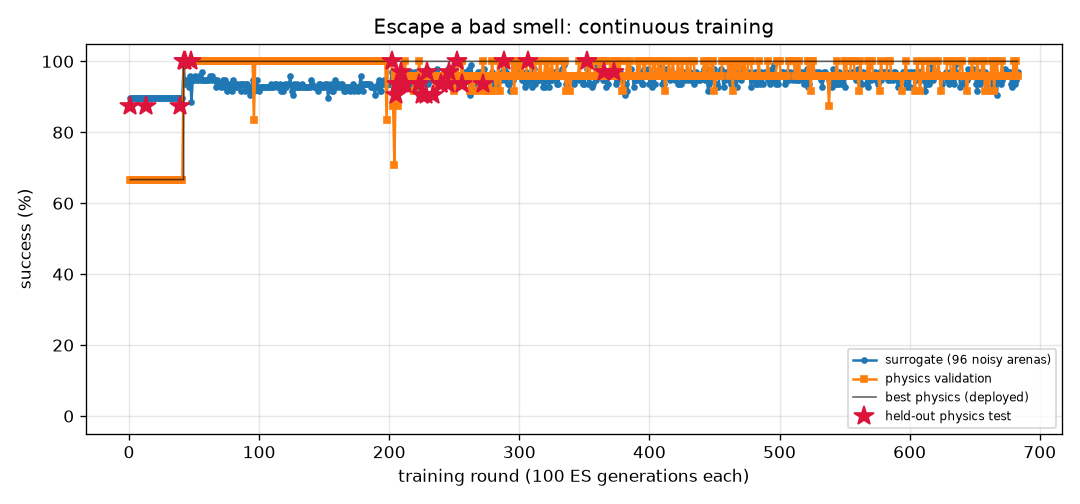
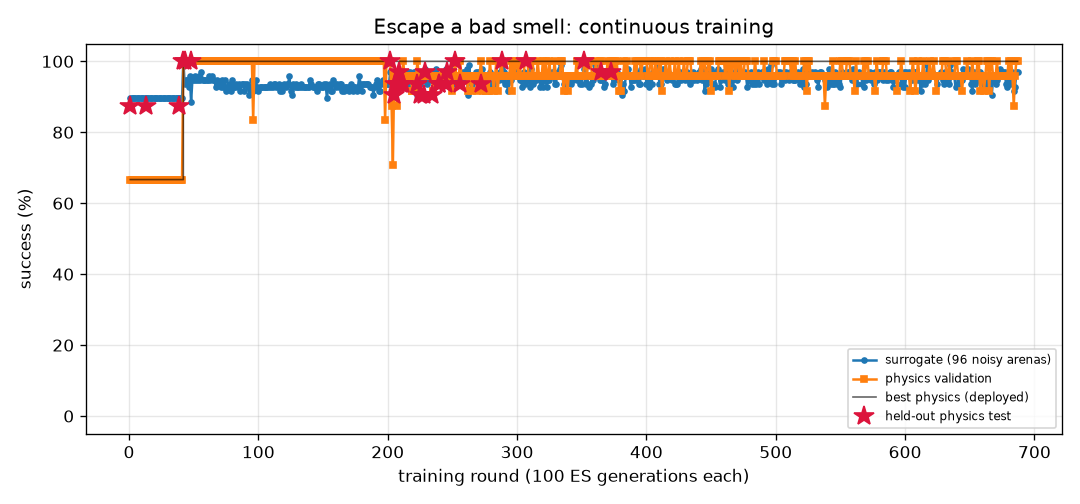
FlyLab: continuous training progress
- walk_forward: optimal, physics val 100% of 24, round 221
- turn: optimal, physics val 100% of 24, round 739
- goto: optimal, physics val 100% of 24, round 186
- odor_seek: optimal, physics val 100% of 24, round 161
- odor_avoid: optimal, physics val 100% of 24, round 687
- light_seek: optimal, physics val 100% of 24, round 381
- light_avoid: optimal, physics val 100% of 24, round 414

diff --git a/projects/09_flylab/training/odor_avoid/REPORT.md b/projects/09_flylab/training/odor_avoid/REPORT.md
@@ -1,14 +1,14 @@
 # Escape a bad smell (`odor_avoid`) — training report
 
-*Auto-generated by `train_brains.py`, last updated 2026-10-28T23:11:19.*
+*Auto-generated by `train_brains.py`, last updated 2026-10-28T23:57:51.*
 
 ![curve](curve.png)
 
 | | |
 |---|---|
-| rounds | 683 |
-| ES generations | 68300 |
-| physics runs | 13698 |
+| rounds | 687 |
+| ES generations | 68700 |
+| physics runs | 13794 |
 | status | **optimal** |
 | best brain | round 373: physics validation **100%** on 24 arenas, surrogate 97% |
 | held-out physics test | **97%** on 32 unseen arenas (95% CI 84%-99%) (errors: [62.0, 57.4, 62.6, 61.9, 59.0, 61.6, 56.5, 60.7, 31.7, 60.9, 63.1, 57.1, 61.1, 62.1, 61.5, 60.2, 62.2, 55.2, 62.1, 54.2, 61.3, 62.0, 58.0, 61.9, 59.8, 56.5, 56.3, 56.4, 56.3, 57.7, 61.9, 32.4]) |
@@ -17,10 +17,6 @@ Physics error per arena: mm gained away from source (> 6 without first approachi
 
 | round | level | gens | sigma | surrogate | physics val | val errors | test | note |
 |---:|---:|---:|---:|---:|---:|---|---:|---|
-| 644 | 3 | 64400 | 0.027 | 95% | 92% | [61.4, 57.7, 55.5, 56.7, 61.4, 58.9, 60.8, 3.0, 59.7, 10.8, 60.3, 61.4, 54.7, 55.7, 49.9, 61.1, 61.4, 60.6, 54.8, 56.2, 61.4, 39.8, 56.6, 4.6] |  |  |
-| 645 | 3 | 64500 | 0.027 | 98% | 96% | [61.8, 57.9, 55.7, 60.4, 61.1, 60.6, 60.8, 27.1, 60.8, 35.2, 60.6, 60.9, 51.6, 56.0, 42.2, 61.1, 61.5, 57.4, 54.4, 55.9, 61.5, 47.4, 59.0, 38.4] |  | restart from best |
-| 646 | 3 | 64600 | 0.026 | 97% | 96% | [63.3, 55.7, 57.2, 58.8, 60.5, 57.8, 61.5, 36.6, 60.6, 41.7, 59.4, 61.1, 52.1, 55.7, 45.2, 61.4, 61.4, 58.9, 54.9, 57.0, 61.2, 46.2, 58.3, 40.0] |  |  |
-| 647 | 3 | 64700 | 0.026 | 96% | 96% | [63.0, 58.1, 56.5, 61.1, 59.9, 61.4, 61.1, 53.2, 60.6, 58.6, 60.8, 61.7, 51.8, 55.8, 26.3, 62.0, 61.5, 61.4, 54.8, 56.1, 62.0, 61.8, 58.8, 62.3] |  |  |
 | 648 | 3 | 64800 | 0.026 | 96% | 100% | [63.4, 61.3, 56.1, 58.6, 59.8, 60.3, 61.8, 17.4, 61.2, 33.2, 59.8, 61.8, 51.4, 55.0, 19.1, 60.8, 61.7, 59.4, 49.1, 58.8, 61.8, 61.0, 55.2, 61.5] |  |  |
 | 649 | 3 | 64900 | 0.026 | 98% | 96% | [63.5, 61.2, 57.9, 61.3, 61.0, 62.3, 61.8, 57.7, 61.1, 61.4, 62.2, 61.4, 54.9, 58.5, 48.1, 62.0, 61.9, 62.2, 55.5, 61.2, 61.8, 60.3, 61.3, 62.0] |  | restart from best |
 | 650 | 3 | 65000 | 0.026 | 97% | 96% | [63.2, 57.0, 58.1, 55.9, 61.9, 62.0, 60.8, 62.8, 60.9, 61.8, 58.1, 61.0, 52.7, 55.3, 18.3, 61.6, 61.2, 61.0, 54.4, 59.2, 61.3, 63.1, 59.0, 63.2] |  |  |
@@ -57,3 +53,7 @@ Physics error per arena: mm gained away from source (> 6 without first approachi
 | 681 | 3 | 68100 | 0.027 | 94% | 96% | [60.3, 59.4, 55.9, 58.7, 60.6, 61.5, 61.2, 60.1, 61.1, 58.9, 60.5, 61.5, 51.5, 56.0, 44.2, 61.7, 61.4, 61.5, 50.4, 58.6, 61.3, 60.7, 58.4, 61.1] |  | restart from best |
 | 682 | 3 | 68200 | 0.026 | 95% | 100% | [63.4, 57.7, 57.9, 58.5, 62.0, 62.3, 61.4, 50.9, 59.5, 60.1, 62.2, 62.1, 54.6, 58.3, 51.5, 61.5, 62.0, 60.4, 55.1, 58.6, 62.2, 59.9, 57.6, 51.4] |  |  |
 | 683 | 3 | 68300 | 0.027 | 97% | 96% | [61.6, 60.4, 56.2, 60.1, 60.6, 60.8, 60.7, 45.5, 61.3, 32.3, 60.8, 61.4, 51.3, 55.9, 29.7, 59.9, 61.1, 60.8, 54.5, 59.5, 61.2, 44.0, 56.7, 59.6] |  |  |
+| 684 | 3 | 68400 | 0.026 | 92% | 88% | [60.0, 54.9, 53.2, 53.7, 60.8, 60.0, 59.8, 46.2, 60.4, 58.7, 59.0, 60.4, 48.5, 55.0, 49.9, 61.0, 60.8, 60.5, 52.3, 54.6, 60.6, 53.7, 57.7, 55.7] |  |  |
+| 685 | 3 | 68500 | 0.029 | 93% | 96% | [62.3, 60.5, 56.1, 56.3, 55.7, 57.6, 61.3, 60.1, 60.0, 42.6, 19.0, 61.8, 49.8, 56.2, 36.3, 61.1, 62.0, 60.7, 51.5, 58.1, 61.8, 60.7, 60.7, 61.7] |  | restart from best |
+| 686 | 3 | 68600 | 0.026 | 97% | 100% | [61.0, 59.1, 56.6, 60.6, 62.1, 61.6, 61.5, 53.4, 61.1, 44.7, 17.5, 61.4, 49.6, 56.0, 28.7, 60.3, 61.9, 58.7, 50.0, 59.6, 61.9, 53.6, 56.7, 61.0] |  |  |
+| 687 | 3 | 68700 | 0.026 | 97% | 100% | [62.6, 60.1, 56.6, 61.3, 62.5, 62.6, 62.1, 61.8, 62.7, 62.1, 62.5, 62.0, 55.2, 56.7, 51.8, 62.5, 62.2, 62.7, 52.6, 57.0, 62.0, 61.1, 61.3, 62.4] |  |  |

diff --git a/projects/09_flylab/training/turn/REPORT.md b/projects/09_flylab/training/turn/REPORT.md
@@ -1,14 +1,14 @@
 # Turn in place (`turn`) — training report
 
-*Auto-generated by `train_brains.py`, last updated 2026-10-28T23:10:20.*
+*Auto-generated by `train_brains.py`, last updated 2026-10-28T23:54:46.*
 
 ![curve](curve.png)
 
 | | |
 |---|---|
-| rounds | 734 |
-| ES generations | 73400 |
-| physics runs | 17862 |
+| rounds | 739 |
+| ES generations | 73900 |
+| physics runs | 17982 |
 | status | **optimal** |
 | best brain | round 80: physics validation **100%** on 24 arenas, surrogate 100% |
 | held-out physics test | **97%** on 32 unseen arenas (95% CI 84%-99%) (errors: [1.6, 3.3, 6.3, 3.7, 1.1, 0.4, 2.4, 2.9, 0.1, 2.6, 0.5, 2.7, 1.5, 3.1, 4.5, 0.2, 0.5, 1.1, 2.0, 4.4, 2.8, 3.2, 0.3, 2.2, 0.5, 3.0, 0.3, 5.4, 0.4, 1.0, 4.7, 10.7]) |
@@ -17,11 +17,6 @@ Physics error per arena: deg from target heading (< 20 = success).
 
 | round | level | gens | sigma | surrogate | physics val | val errors | test | note |
 |---:|---:|---:|---:|---:|---:|---|---:|---|
-| 695 | 3 | 69500 | 0.025 | 98% | 75% | [4.3, 3.7, 0.3, 1.3, 3.4, 0.5, 6.3, 6.8, 6.7, 0.2, 4.3, 1.5, 0.7, 2.8, 3.3, 15.9, 1.3, 1.9, 2.8, 1.9, 5.9, 1.6, 5.7, 4.7] |  |  |
-| 696 | 3 | 69600 | 0.025 | 95% | 71% | [7.4, 10.1, 1.7, 2.9, 10.9, 1.5, 2.7, 7.1, 3.9, 0.0, 1.9, 4.6, 0.9, 1.9, 2.6, 2.5, 5.4, 0.5, 2.6, 3.2, 7.8, 0.7, 3.1, 0.8] |  | restart from best |
-| 697 | 3 | 69700 | 0.024 | 99% | 79% | [0.8, 1.0, 2.8, 0.6, 0.3, 1.7, 6.6, 7.7, 8.4, 0.9, 3.5, 2.4, 0.0, 0.7, 2.5, 2.7, 2.5, 2.1, 11.8, 2.3, 0.9, 2.6, 9.1, 6.6] |  |  |
-| 698 | 3 | 69800 | 0.025 | 100% | 83% | [8.0, 16.2, 11.9, 3.5, 0.3, 0.3, 10.2, 12.7, 11.9, 3.3, 6.7, 6.9, 1.6, 2.5, 5.9, 5.2, 7.2, 15.5, 5.2, 5.7, 0.3, 4.5, 10.5, 12.8] |  |  |
-| 699 | 3 | 69900 | 0.024 | 99% | 83% | [10.6, 17.1, 12.3, 4.8, 1.7, 6.4, 12.0, 12.4, 10.7, 5.2, 7.3, 3.4, 4.3, 4.6, 6.2, 5.7, 3.7, 17.3, 6.0, 5.7, 2.7, 5.4, 10.7, 11.4] |  |  |
 | 700 | 3 | 70000 | 0.025 | 98% | 75% | [7.8, 7.6, 0.8, 1.1, 6.3, 6.4, 6.0, 1.2, 4.0, 0.2, 5.8, 6.1, 1.0, 4.2, 4.0, 0.3, 5.9, 1.4, 0.1, 0.1, 10.2, 0.8, 4.4, 6.1] |  | restart from best |
 | 701 | 3 | 70100 | 0.024 | 99% | 83% | [8.4, 8.0, 4.7, 3.2, 0.7, 6.4, 3.3, 0.1, 4.0, 0.7, 2.4, 0.7, 2.9, 3.7, 4.3, 1.4, 0.7, 0.3, 2.1, 0.9, 7.7, 0.1, 5.1, 4.2] |  |  |
 | 702 | 3 | 70200 | 0.025 | 98% | 75% | [0.6, 7.4, 9.5, 1.0, 0.2, 6.4, 8.8, 11.0, 8.9, 3.2, 6.0, 3.6, 3.3, 2.7, 5.8, 3.8, 0.2, 4.7, 3.6, 13.1, 2.4, 2.0, 9.8, 11.5] |  |  |
@@ -57,3 +52,8 @@ Physics error per arena: deg from target heading (< 20 = success).
 | 732 | 3 | 73200 | 0.025 | 100% | 75% | [3.9, 3.8, 1.0, 0.2, 0.5, 1.1, 5.7, 6.6, 4.9, 0.8, 5.8, 0.8, 0.8, 2.6, 5.9, 1.6, 0.7, 2.8, 2.4, 2.5, 3.4, 1.7, 7.7, 6.8] |  | restart from best |
 | 733 | 3 | 73300 | 0.024 | 99% | 100% | [1.8, 8.6, 3.6, 0.8, 1.1, 3.4, 3.2, 1.3, 5.0, 1.5, 2.7, 0.9, 3.5, 4.3, 2.6, 1.6, 0.7, 1.3, 1.5, 0.9, 6.1, 0.9, 5.2, 0.6] |  |  |
 | 734 | 3 | 73400 | 0.025 | 99% | 83% | [3.7, 3.0, 3.5, 1.0, 0.6, 3.3, 5.0, 6.8, 5.0, 0.2, 4.7, 0.2, 1.0, 1.7, 4.4, 0.9, 0.3, 1.5, 0.8, 4.5, 4.5, 1.7, 0.1, 5.2] |  |  |
+| 735 | 3 | 73500 | 0.025 | 100% | 83% | [5.3, 5.6, 2.8, 0.0, 2.0, 0.8, 3.3, 2.8, 3.3, 0.8, 3.8, 0.7, 2.1, 3.6, 4.5, 0.7, 0.5, 0.1, 0.3, 1.3, 4.4, 0.6, 4.7, 1.2] |  |  |
+| 736 | 3 | 73600 | 0.024 | 99% | 88% | [6.4, 6.7, 3.8, 0.5, 11.2, 3.7, 5.8, 0.1, 6.1, 14.2, 4.2, 1.1, 1.3, 2.6, 5.4, 0.0, 0.6, 0.7, 2.6, 0.7, 3.8, 1.1, 5.8, 4.5] |  | restart from best |
+| 737 | 3 | 73700 | 0.024 | 99% | 96% | [0.8, 4.2, 4.2, 2.7, 2.2, 1.9, 6.1, 7.9, 8.2, 0.1, 4.6, 0.6, 2.5, 2.5, 4.5, 1.6, 0.7, 1.8, 0.0, 2.5, 2.3, 1.4, 5.8, 1.3] |  |  |
+| 738 | 3 | 73800 | 0.025 | 99% | 79% | [7.1, 9.9, 8.6, 0.9, 4.4, 0.2, 4.3, 0.1, 3.6, 0.3, 3.6, 2.3, 2.9, 5.6, 2.8, 0.5, 3.0, 0.5, 0.2, 1.3, 8.0, 0.1, 3.2, 3.0] |  |  |
+| 739 | 3 | 73900 | 0.025 | 99% | 96% | [0.7, 4.4, 11.4, 0.8, 11.5, 0.6, 4.6, 6.3, 6.6, 1.2, 5.1, 1.0, 1.3, 0.6, 3.9, 1.9, 1.1, 1.5, 0.6, 1.1, 2.3, 1.3, 5.4, 0.4] |  |  |

diff --git a/projects/09_flylab/training/light_avoid/REPORT.md b/projects/09_flylab/training/light_avoid/REPORT.md
@@ -1,14 +1,14 @@
 # Hide from light (`light_avoid`) — training report
 
-*Auto-generated by `train_brains.py`, last updated 2026-10-28T20:33:49.*
+*Auto-generated by `train_brains.py`, last updated 2026-10-29T00:06:04.*
 
 ![curve](curve.png)
 
 | | |
 |---|---|
-| rounds | 413 |
-| ES generations | 41300 |
-| physics runs | 10184 |
+| rounds | 414 |
+| ES generations | 41400 |
+| physics runs | 10208 |
 | status | **optimal** |
 | best brain | round 159: physics validation **100%** on 24 arenas, surrogate 100% |
 | held-out physics test | **100%** on 32 unseen arenas (95% CI 89%-100%) (errors: [14.4, 56.1, 58.0, 57.9, 57.5, 14.0, 14.4, 56.6, 56.8, 13.3, 14.1, 56.6, 57.6, 13.1, 57.3, 55.9, 57.2, 55.0, 55.2, 53.9, 55.2, 12.4, 53.8, 53.7, 14.1, 13.7, 55.0, 57.8, 56.2, 13.1, 52.8, 56.5]) |
@@ -17,7 +17,6 @@ Physics error per arena: mm gained away from source (> 6 without first approachi
 
 | round | level | gens | sigma | surrogate | physics val | val errors | test | note |
 |---:|---:|---:|---:|---:|---:|---|---:|---|
-| 374 | 3 | 37400 | 0.024 | 100% | 100% | [58.8, 62.6, 62.4, 59.7, 61.5, 60.0, 61.3, 14.5, 56.1, 13.4, 61.5, 61.2, 14.4, 59.2, 62.5, 60.1, 14.2, 62.1, 62.9, 14.4, 58.3, 61.7, 61.1, 60.5] |  |  |
 | 375 | 3 | 37500 | 0.024 | 100% | 100% | [59.7, 62.8, 62.6, 59.2, 61.9, 60.3, 61.5, 14.5, 55.1, 13.2, 60.8, 61.6, 14.4, 61.3, 62.7, 60.6, 14.2, 62.3, 63.1, 14.4, 57.7, 61.7, 61.3, 61.1] |  | restart from best |
 | 376 | 3 | 37600 | 0.024 | 100% | 100% | [48.2, 50.9, 50.3, 49.4, 53.3, 49.3, 48.5, 14.5, 38.2, 13.3, 53.0, 53.3, 14.4, 51.8, 50.9, 49.8, 14.2, 53.2, 50.9, 14.4, 48.9, 53.2, 48.8, 53.1] |  |  |
 | 377 | 3 | 37700 | 0.024 | 99% | 100% | [46.0, 46.5, 46.8, 45.7, 41.9, 45.0, 46.4, 14.5, 13.0, 13.4, 10.1, 42.8, 14.4, 40.5, 46.6, 45.3, 14.2, 43.2, 45.6, 14.4, 45.3, 11.0, 45.4, 41.0] |  |  |
@@ -57,3 +56,4 @@ Physics error per arena: mm gained away from source (> 6 without first approachi
 | 411 | 3 | 41100 | 0.024 | 98% | 100% | [54.0, 59.1, 58.9, 55.1, 58.3, 55.0, 57.6, 14.5, 54.0, 13.5, 54.2, 58.1, 14.4, 56.4, 59.0, 11.6, 14.2, 58.9, 59.3, 14.4, 8.4, 56.7, 57.3, 57.5] |  | restart from best |
 | 412 | 3 | 41200 | 0.024 | 100% | 100% | [46.7, 49.3, 48.6, 48.7, 51.6, 47.9, 46.1, 14.5, 48.8, 13.4, 51.6, 51.7, 14.4, 51.2, 48.9, 47.7, 14.2, 51.9, 48.9, 14.4, 45.2, 51.9, 47.0, 51.5] |  |  |
 | 413 | 3 | 41300 | 0.024 | 100% | 100% | [47.5, 49.2, 48.5, 48.6, 51.8, 48.1, 46.3, 14.5, 49.2, 13.2, 51.5, 52.1, 14.4, 51.6, 48.8, 48.1, 14.2, 52.1, 49.2, 14.4, 50.0, 51.6, 47.1, 51.8] |  |  |
+| 414 | 3 | 41400 | 0.024 | 100% | 100% | [46.0, 47.5, 46.7, 47.7, 50.5, 46.5, 44.7, 14.5, 47.4, 13.5, 50.6, 50.8, 14.4, 50.1, 47.0, 47.4, 14.2, 50.7, 47.4, 14.4, 47.0, 49.9, 44.9, 51.0] |  |  |

diff --git a/projects/09_flylab/training/TRAINING.md b/projects/09_flylab/training/TRAINING.md
@@ -1,15 +1,15 @@
 # FlyLab brains — continuous training log
 
-*Auto-generated by `train_brains.py`, last updated 2026-10-28T23:11:19.*
+*Auto-generated by `train_brains.py`, last updated 2026-10-29T00:06:04.*
 
 Every skill has its own brain and its own training process: surrogate ES rounds, physics validation in MuJoCo, keep-the-best selection, and a held-out physics test that is never used for selection. See each skill's report for its full round-by-round history. Mastery is progressive: passing a level (100% physics validation, >=95% surrogate) doubles the validation and test arena sets; a brain is **optimal** once it holds up at level 3 (>=95% of 24 validation arenas) AND scores >=90% on the 32 held-out test arenas. Test columns show 95% Wilson confidence intervals.
 
 | skill | rounds | ES generations | physics runs | surrogate | physics val | **physics test** | status |
 |---|---:|---:|---:|---:|---:|---:|---|
 | [Walk forward](walk_forward/REPORT.md) | 221 | 22100 | 5318 | 100% | 100% of 24 | 100% of 32 (CI 89-100%) | **optimal** |
-| [Turn in place](turn/REPORT.md) | 734 | 73400 | 17862 | 100% | 100% of 24 | 97% of 32 (CI 84-99%) | **optimal** |
+| [Turn in place](turn/REPORT.md) | 739 | 73900 | 17982 | 100% | 100% of 24 | 97% of 32 (CI 84-99%) | **optimal** |
 | [Go to a location](goto/REPORT.md) | 186 | 18600 | 4414 | 100% | 100% of 24 | 100% of 32 (CI 89-100%) | **optimal** |
 | [Find food by smell](odor_seek/REPORT.md) | 161 | 16100 | 3294 | 100% | 100% of 24 | 100% of 32 (CI 89-100%) | **optimal** |
-| [Escape a bad smell](odor_avoid/REPORT.md) | 683 | 68300 | 13698 | 97% | 100% of 24 | 97% of 32 (CI 84-99%) | **optimal** |
+| [Escape a bad smell](odor_avoid/REPORT.md) | 687 | 68700 | 13794 | 97% | 100% of 24 | 97% of 32 (CI 84-99%) | **optimal** |
 | [Walk toward light](light_seek/REPORT.md) | 381 | 38100 | 6024 | 100% | 100% of 24 | 100% of 32 (CI 89-100%) | **optimal** |
-| [Hide from light](light_avoid/REPORT.md) | 413 | 41300 | 10184 | 100% | 100% of 24 | 100% of 32 (CI 89-100%) | **optimal** |
+| [Hide from light](light_avoid/REPORT.md) | 414 | 41400 | 10208 | 100% | 100% of 24 | 100% of 32 (CI 89-100%) | **optimal** |
